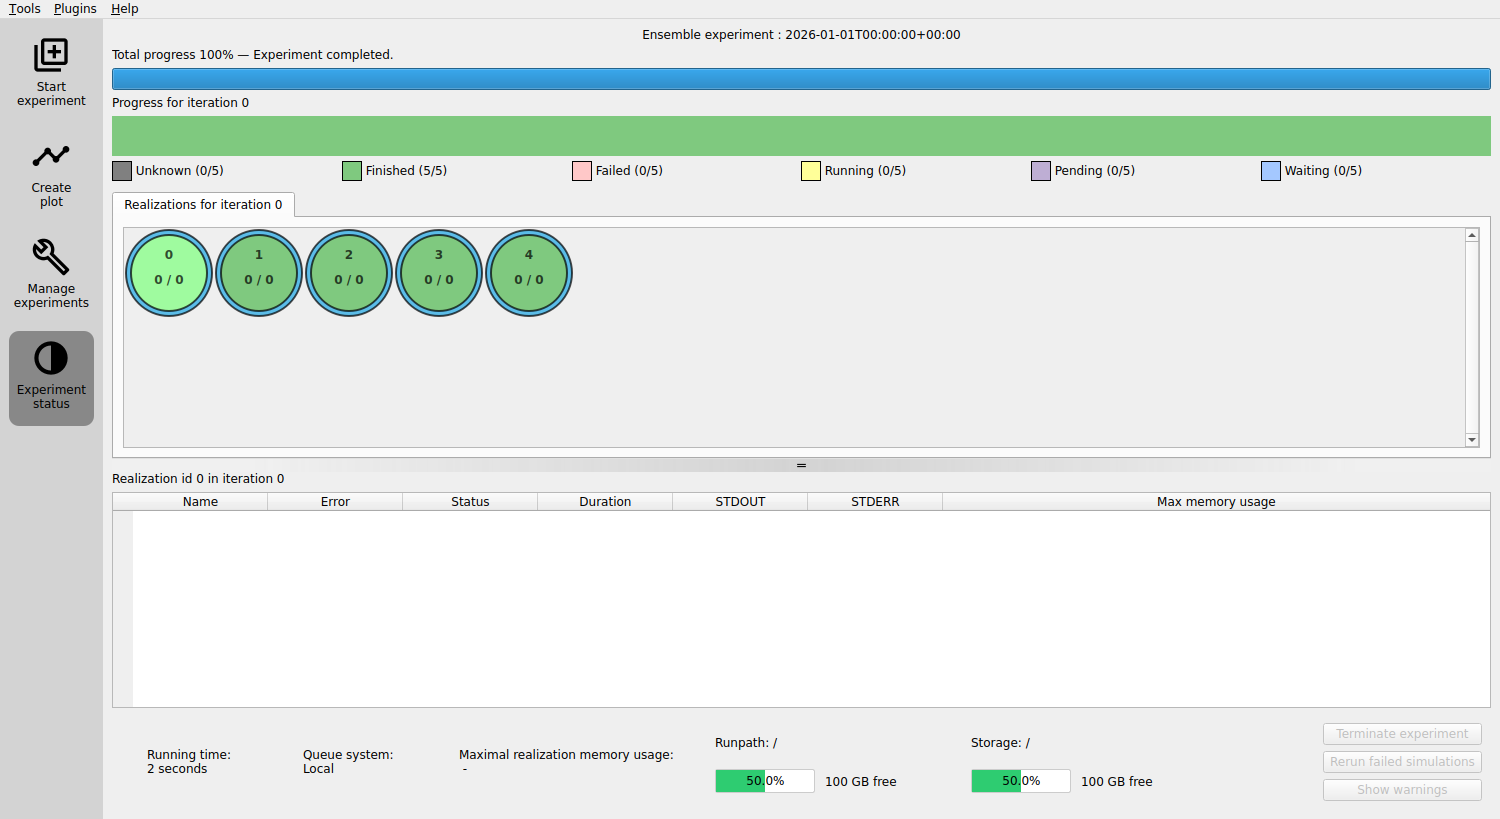
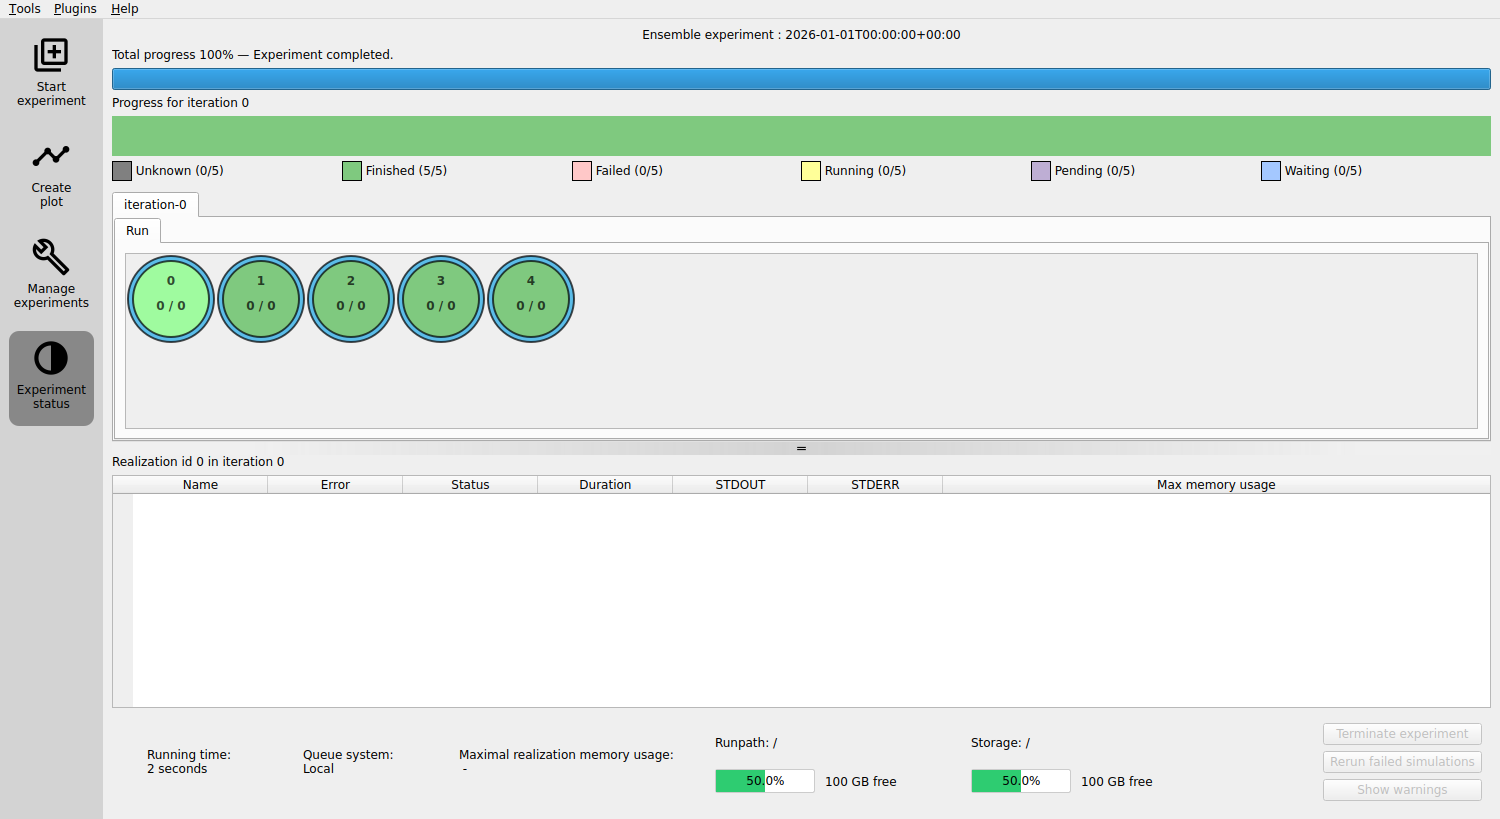
code review2

Changed region(s): [[0.0613, 0.2747, 1.0, 0.641], [0.0613, 0.2442, 0.3987, 0.4274]]

diff --git a/src/ert/config/external_ert_script.py b/src/ert/config/external_ert_script.py
@@ -32,7 +32,7 @@ class ExternalErtScript(ErtScript):
 
         if self.__job.returncode != 0:
             if self.isCancelled():
-                return None
+                return
             raise RuntimeError(self._stderrdata)
 
     def cancel(self) -> Any:

diff --git a/tests/ert/ui_tests/gui/conftest.py b/tests/ert/ui_tests/gui/conftest.py
@@ -11,7 +11,6 @@ from textwrap import dedent
 from unittest.mock import MagicMock, Mock
 
 import pytest
-from ert.gui.experiments.view.iteration import TabGroupWidget
 from PyQt6.QtCore import QDir, Qt, QTimer
 from PyQt6.QtWidgets import (
     QApplication,
@@ -28,6 +27,7 @@ from ert.config import ErtConfig
 from ert.gui.ertwidgets import ClosableDialog, CreateExperimentDialog, EnsembleSelector
 from ert.gui.experiments import ExperimentPanel, RunDialog
 from ert.gui.experiments.view import RealizationWidget
+from ert.gui.experiments.view.tab_group_widget import TabGroupWidget
 from ert.gui.main import ErtMainWindow, _setup_main_window, add_gui_log_handler
 from ert.gui.tools.load_results.load_results_panel import LoadResultsPanel
 from ert.gui.tools.manage_experiments import ManageExperimentsPanel

diff --git a/tests/ert/ui_tests/gui/test_restart_ensemble_experiment.py b/tests/ert/ui_tests/gui/test_restart_ensemble_experiment.py
@@ -5,13 +5,13 @@ import stat
 from pathlib import Path
 from textwrap import dedent
 
-from ert.gui.experiments.view.iteration import TabGroupWidget
 from PyQt6.QtCore import Qt, QTimer
 from PyQt6.QtWidgets import QComboBox, QMessageBox, QWidget
 
 from ert.gui.ertwidgets import StringBox
 from ert.gui.experiments import ExperimentPanel, RunDialog
 from ert.gui.experiments.view import RealizationWidget
+from ert.gui.experiments.view.tab_group_widget import TabGroupWidget
 
 from .conftest import wait_for_child
 